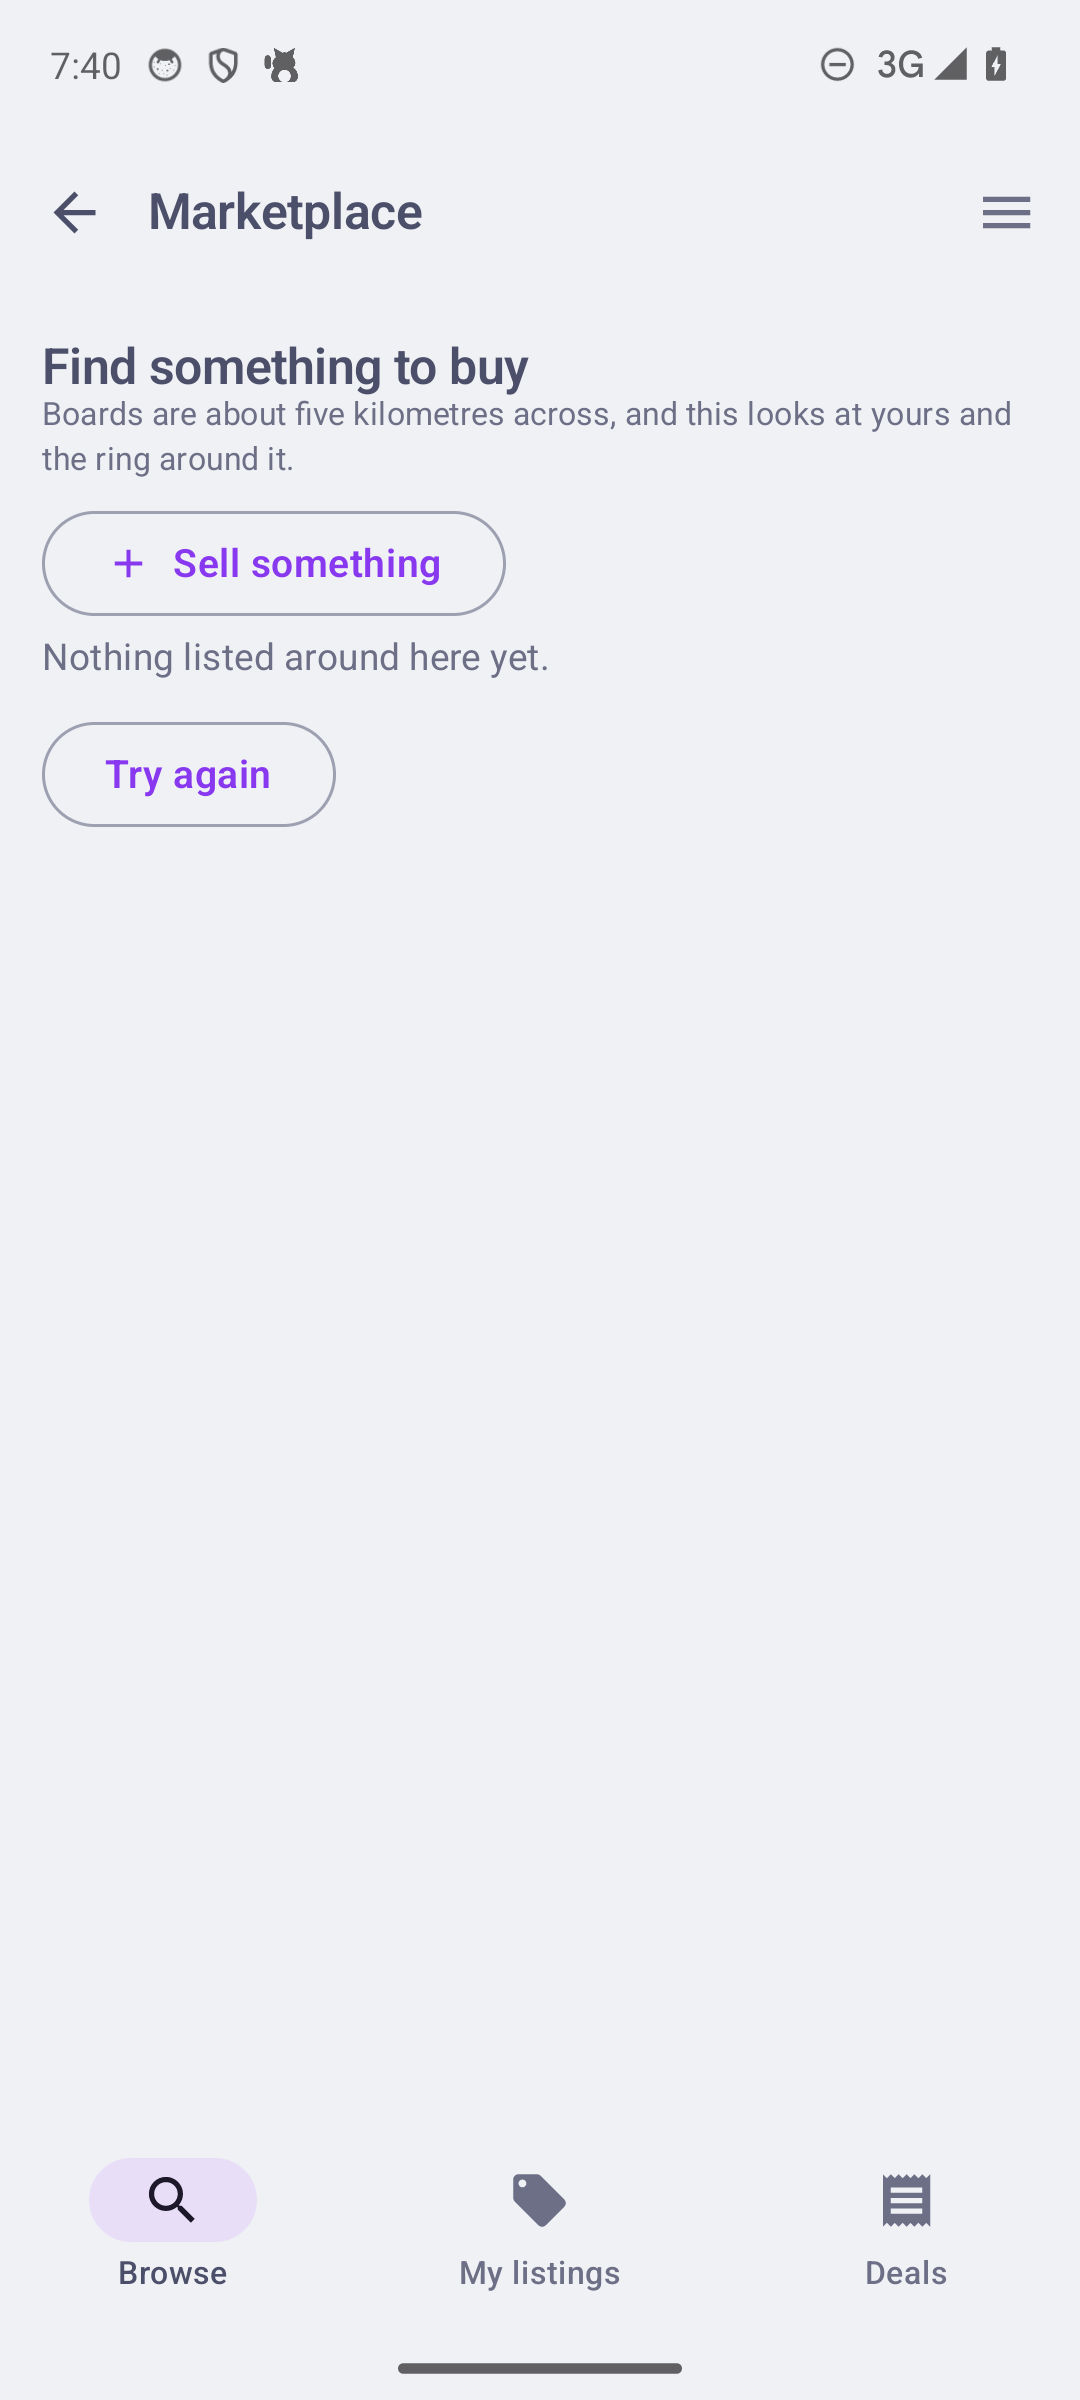
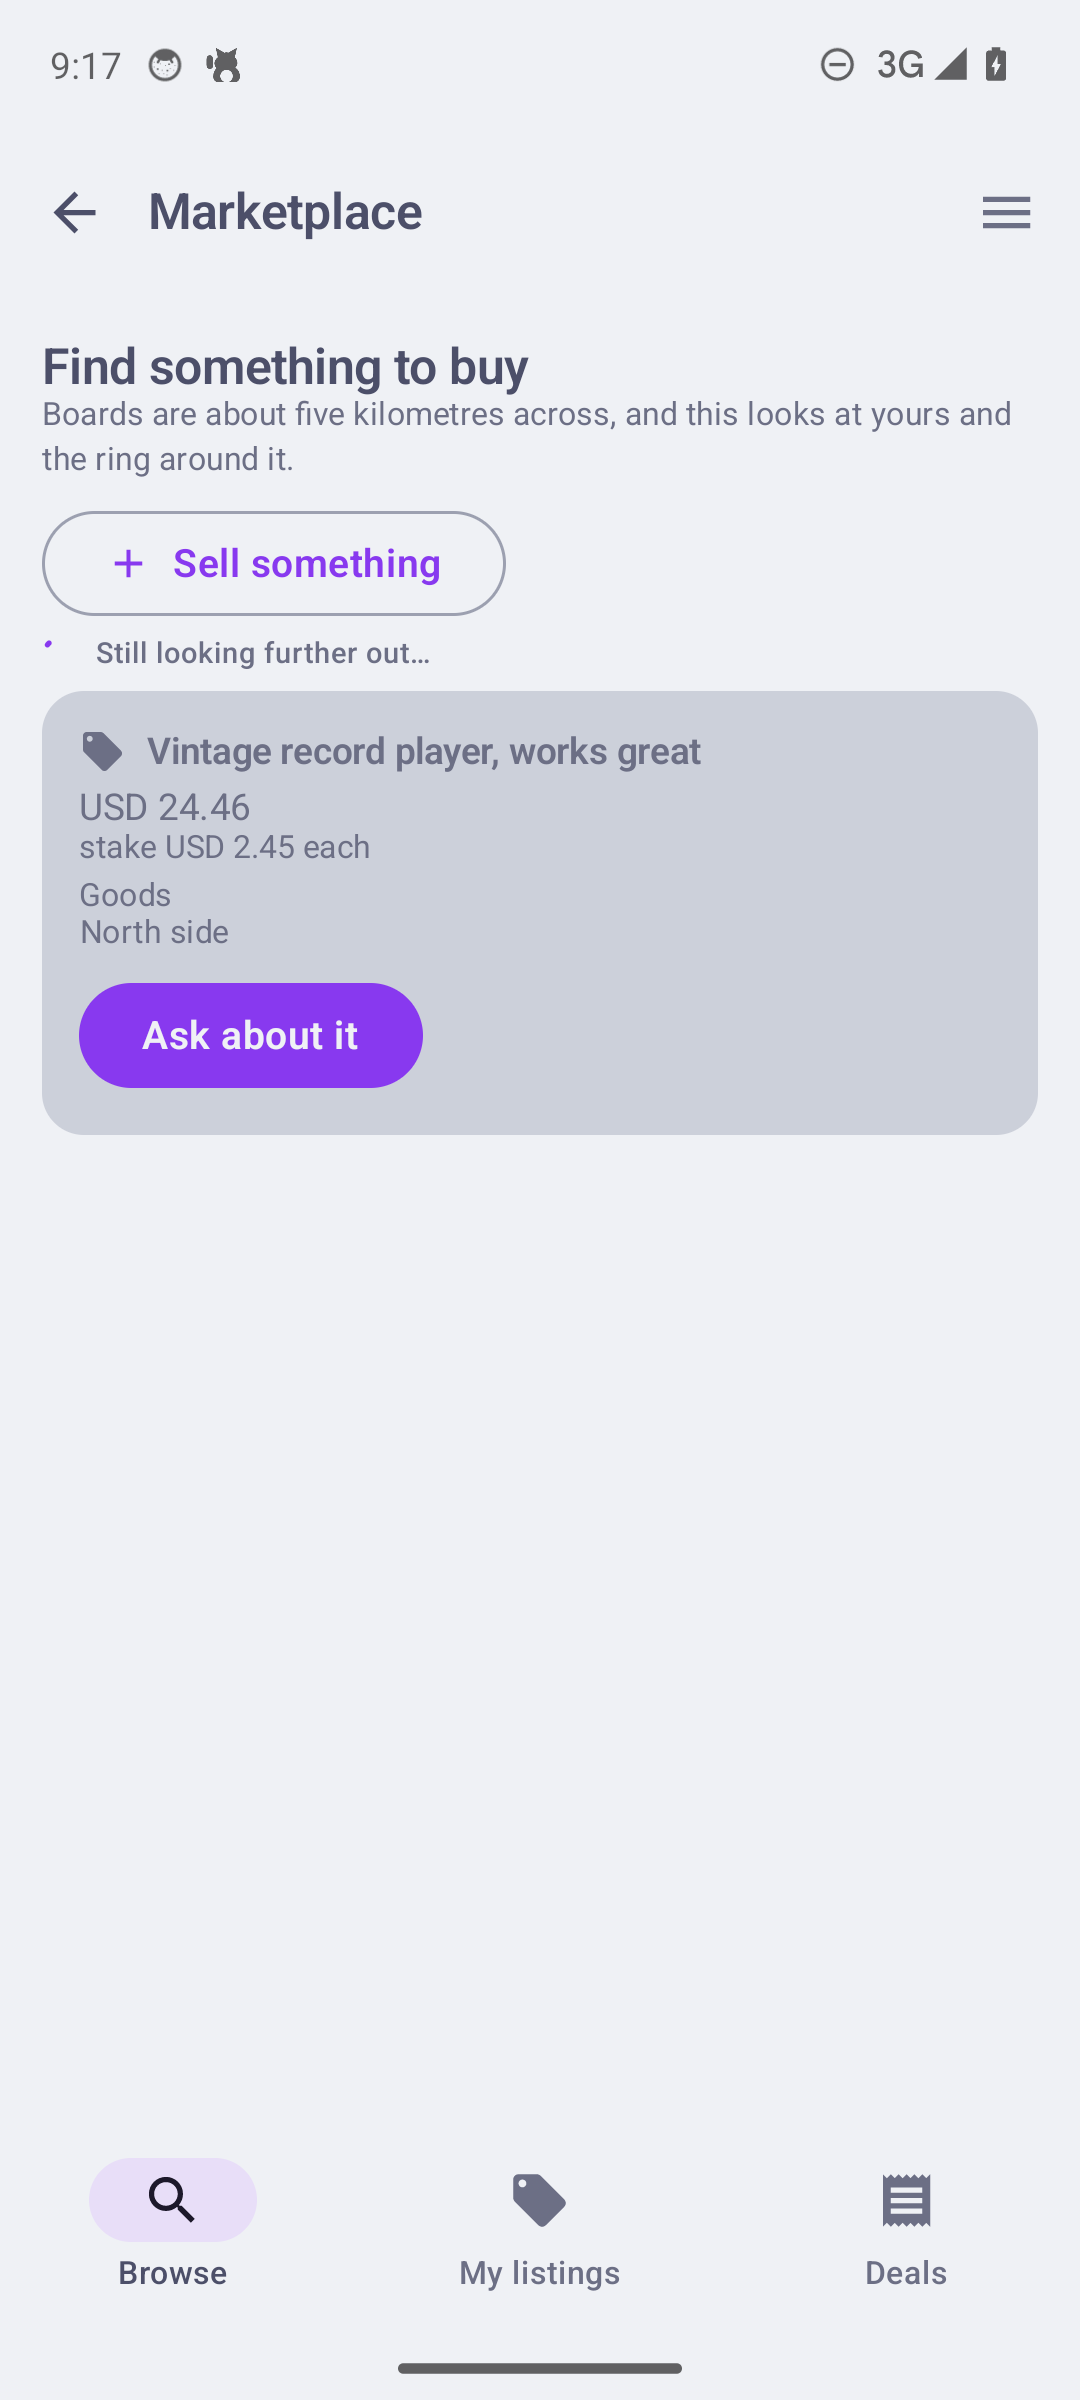
images: the boards with things on them
The two browse shots retaken now the tap network is back and the
listings are re-posted: gear search showing the cargo bike with its
per-day price and stakes, marketplace showing the record player with
"Ask about it", and a bonus hire-help browse with the skill priced per
hour. rent-search finally replaces the README's last Aug-18 capture.

Claude-Session: https://claude.ai/code/session_017PYz1EwHcoRbs8Hm5e5qy7

diff --git a/images/README.md b/images/README.md
@@ -40,5 +40,6 @@ theme is the light default unless the name says otherwise.
 | `hail.png` | Hailing a ride: route, distance, time, fare against a rideshare's price |
 | `taxi-drive.png` | The driver's day: watch a stand or an area for hails |
 | `taxi-meter.png` | The meter: rate typed once, a pickup code, terms land in the chat at start |
-| `marketplace.png` | Marketplace browse (empty board state shown honestly) |
-| `rent-search.png` | Finding gear nearby, board by board |
+| `marketplace.png` | Marketplace browse: a listing found on the board, price and stakes, "Ask about it" |
+| `hire-help.png` | Hire help browse: a skill found nearby, priced per hour |
+| `rent-search.png` | Finding gear nearby: a live listing with price per day and stakes |
